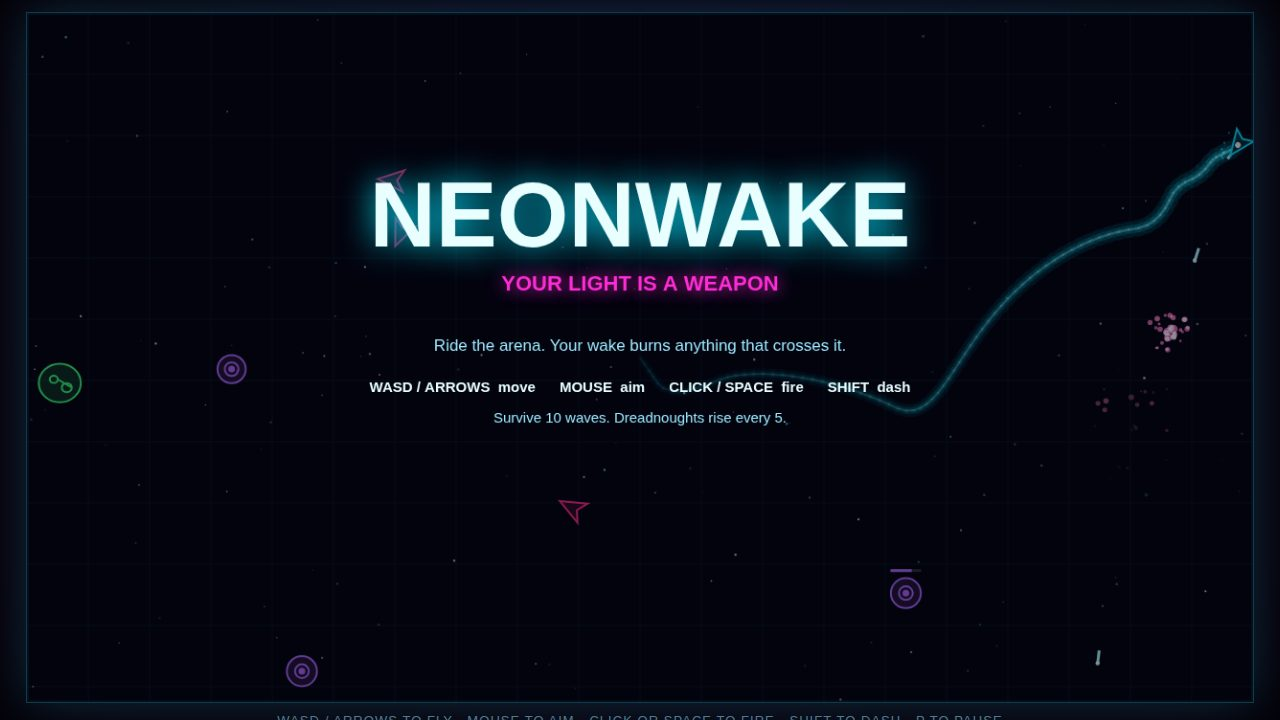
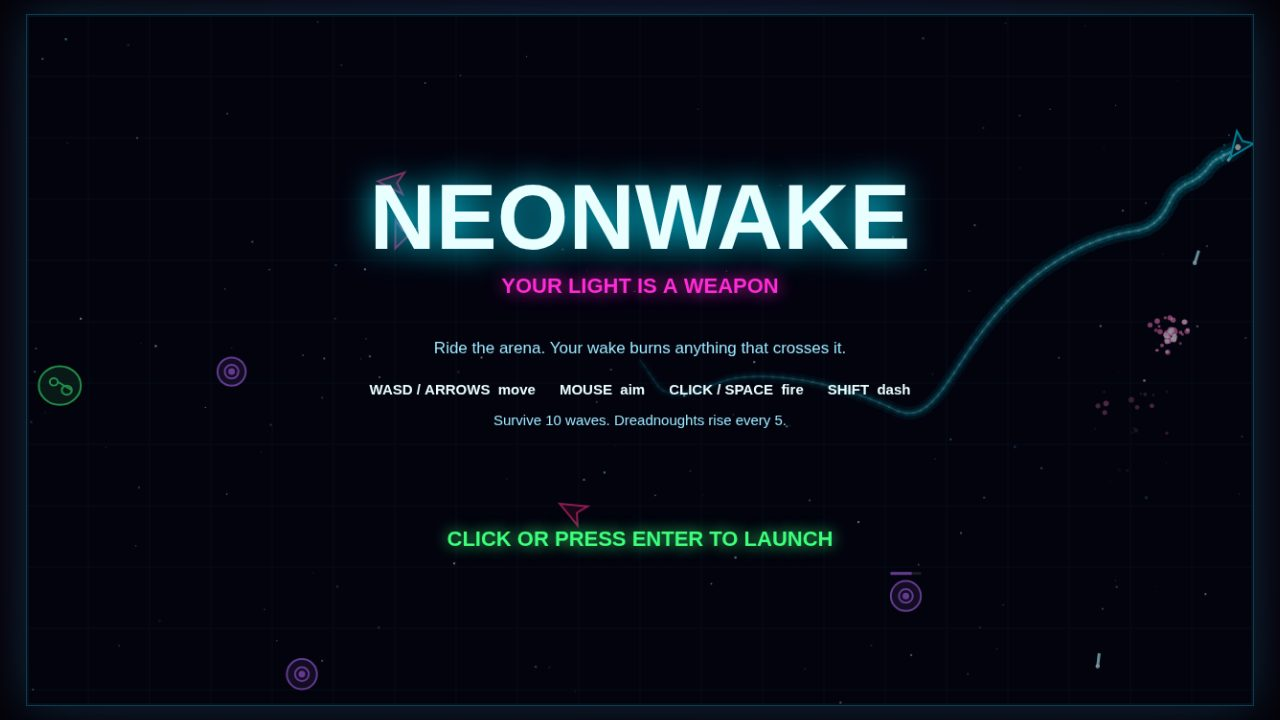
Polish shot scenes: visible launch prompt, denser play and boss scenes

diff --git a/game/js/game.js b/game/js/game.js
@@ -27,6 +27,7 @@ export class Game {
     this.rng = rng;
     this.bounds = { width: ARENA_WIDTH, height: ARENA_HEIGHT };
     this.state = 'title';
+    this.shotMode = false;
     this.bestScore = loadBestScore();
     this.time = 0;
     this.shake = 0;
@@ -382,7 +383,7 @@ export class Game {
     ctx.restore();
 
     if (this.state === 'title') {
-      drawTitleScreen(ctx, ARENA_WIDTH, ARENA_HEIGHT, this.time, this.bestScore);
+      drawTitleScreen(ctx, ARENA_WIDTH, ARENA_HEIGHT, this.time, this.bestScore, this.shotMode);
     } else if (this.state === 'playing' || this.state === 'paused') {
       drawHud(ctx, this);
       if (this.state === 'paused') drawPauseScreen(ctx, ARENA_WIDTH, ARENA_HEIGHT);
@@ -400,6 +401,7 @@ export class Game {
   // window.__shotReady. No audio is touched here.
 
   setupShotScene(scene) {
+    this.shotMode = true;
     const scripted = {
       moveVector: () => ({ x: 0.94, y: 0.34 }),
       mouseX: 980, mouseY: 300, firing: true, dashing: false,
@@ -434,20 +436,43 @@ export class Game {
         this.enemies.push(createEnemy('chaser', 760, 140, 5, this.rng));
         this.enemies.push(createEnemy('mini', 1060, 180, 5, this.rng));
       } else {
+        // Eight hostiles in frame: a chaser pack closing in, a shooter
+        // holding its ring, and a splitter with its mini escorts.
         this.enemies.push(createEnemy('chaser', 830, 230, 4, this.rng));
         this.enemies.push(createEnemy('chaser', 950, 430, 4, this.rng));
+        this.enemies.push(createEnemy('chaser', 1120, 470, 4, this.rng));
         this.enemies.push(createEnemy('shooter', 1020, 170, 4, this.rng));
         this.enemies.push(createEnemy('splitter', 880, 560, 4, this.rng));
         this.enemies.push(createEnemy('mini', 720, 150, 4, this.rng));
+        this.enemies.push(createEnemy('mini', 760, 470, 4, this.rng));
+        this.enemies.push(createEnemy('mini', 990, 610, 4, this.rng));
         this.pickups.drop(620, 250, 'rapid');
+        // Rapid fire for the staged volley: twice the bolts in flight.
+        this.player.grantRapid();
       }
       for (let i = 0; i < 26; i++) this.update(STEP);
       // Guaranteed set dressing: one fresh explosion and crossing orbs.
       const foe = this.enemies[0];
-      if (foe) this.particles.explosion(foe.x + 60, foe.y - 40, foe.color, 20, 250);
+      if (foe) this.particles.explosion(foe.x + 60, foe.y - 40, foe.color, 30, 320);
       this.shots.fireEnemyOrb(1050, 560, Math.PI * 0.92);
       this.shots.fireEnemyOrb(240, 160, Math.PI * 0.08);
-      this.particles.update(STEP);
+      if (scene === 'boss' && foe) {
+        // A radial ring of orbs already in flight around the Dreadnought,
+        // plus an aimed three-orb spread partway toward the player.
+        for (let i = 0; i < 12; i++) {
+          const a = (i / 12) * Math.PI * 2 + 0.26;
+          const d = foe.radius + 30 + (i % 3) * 24;
+          this.shots.fireEnemyOrb(foe.x + Math.cos(a) * d, foe.y + Math.sin(a) * d, a, 190);
+        }
+        const aim = Math.atan2(this.player.y - foe.y, this.player.x - foe.x);
+        for (const [dist, off] of [[150, -0.16], [218, 0], [286, 0.16]]) {
+          this.shots.fireEnemyOrb(
+            foe.x + Math.cos(aim) * dist, foe.y + Math.sin(aim) * dist, aim + off, 265);
+        }
+      }
+      // Let the fresh burst expand for a few ticks so it reads as a
+      // starburst rather than a single bright dot.
+      for (let i = 0; i < 5; i++) this.particles.update(STEP);
       this.render();
       return;
     }

diff --git a/game/js/hud.js b/game/js/hud.js
@@ -174,7 +174,7 @@ function centreText(ctx, text, y, font, color, glow = 0) {
   ctx.restore();
 }
 
-export function drawTitleScreen(ctx, width, height, time, bestScore) {
+export function drawTitleScreen(ctx, width, height, time, bestScore, forcePrompt = false) {
   overlay(ctx, width, height, 0.45);
   const pulse = 1 + Math.sin(time * 2.2) * 0.02;
   ctx.save();
@@ -200,7 +200,9 @@ export function drawTitleScreen(ctx, width, height, time, bestScore) {
   if (bestScore > 0) {
     centreText(ctx, `BEST SCORE  ${bestScore}`, 470, 'bold 16px Verdana, sans-serif', '#ffcf3f');
   }
-  const blink = Math.sin(time * 4) > -0.2;
+  // Screenshot scenes pass forcePrompt so the launch prompt is always in
+  // frame instead of depending on where the blink cycle happens to land.
+  const blink = forcePrompt || Math.sin(time * 4) > -0.2;
   if (blink) {
     centreText(ctx, 'CLICK OR PRESS ENTER TO LAUNCH', 548, 'bold 22px Verdana, sans-serif', '#3dff7c', 16);
   }

diff --git a/game/js/main.js b/game/js/main.js
@@ -25,6 +25,11 @@ function seedFromParam(raw) {
 }
 
 if (shotScene) {
+  // The page hint strip sits below the canvas and lands half-clipped at
+  // the bottom edge of screenshot captures; hide it in shot mode. The
+  // title screen already lists the controls mid-canvas.
+  const hint = document.getElementById('hint');
+  if (hint) hint.style.display = 'none';
   const scene = SHOT_SCENES.includes(shotScene) ? shotScene : 'title';
   const game = new Game(ctx, null, null, createRng(seedFromParam(params.get('seed'))));
   game.setupShotScene(scene);
